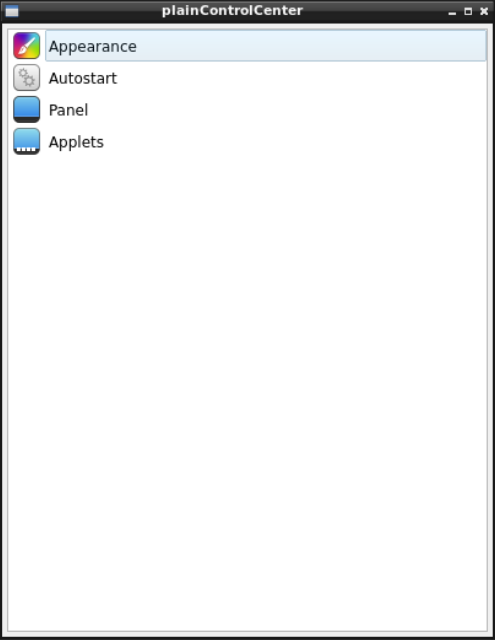
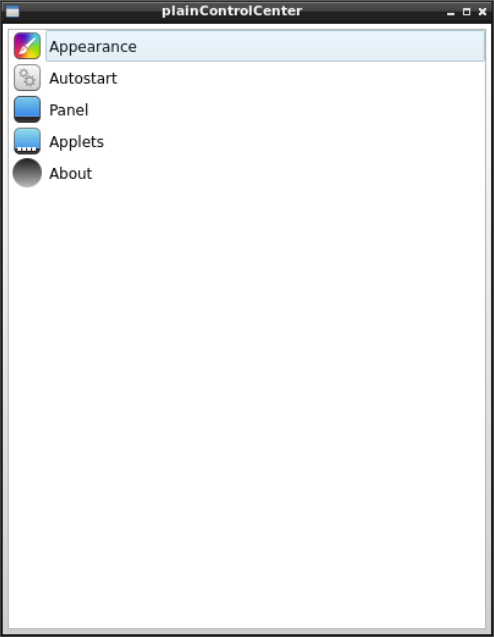
0.1.4

Changed region(s): [[0.0, 0.0, 1.0, 1.0]]

diff --git a/panes/panel.cpp b/panes/panel.cpp
@@ -20,7 +20,8 @@ void PanelPane::setCurrentSettings(QSpinBox* panelHeightSpinBox,
                                    QRadioButton* panelBottomLocationRadioButton,
                                    QCheckBox* panelAnimationCheckBox,
                                    QCheckBox* expandPanelCheckBox,
-                                   QSpinBox* panelOffsetSpinBox) {
+                                   QSpinBox* panelOffsetSpinBox,
+                                   QDoubleSpinBox* panelOpacitySpinBox) {
     panelHeightSpinBox->setValue(panelPaneConfig["panelHeight"].toInt());
     if (panelPaneConfig["panelLocation"].toString() == "top") {
         panelTopLocationRadioButton->toggle();
@@ -40,13 +41,16 @@ void PanelPane::setCurrentSettings(QSpinBox* panelHeightSpinBox,
         panelOffsetSpinBox->setEnabled(true);
         panelOffsetSpinBox->setValue(panelPaneConfig["xOffset"].toInt());
     }
+
+    panelOpacitySpinBox->setValue(panelPaneConfig["panelOpacity"].toDouble());
 }
 
 void PanelPane::saveSettings(QSpinBox* panelHeightSpinBox,
                              QRadioButton* panelTopLocationRadioButton,
                              QCheckBox* panelAnimationCheckBox,
                              QCheckBox* expandPanelCheckBox,
-                             QSpinBox* panelOffsetSpinBox) {
+                             QSpinBox* panelOffsetSpinBox,
+                             QDoubleSpinBox* panelOpacitySpinBox) {
     panelPaneConfig["panelHeight"] = QJsonValue(panelHeightSpinBox->value());
     if (panelTopLocationRadioButton->isChecked()) {
         panelPaneConfig["panelLocation"] = QJsonValue("top");
@@ -70,6 +74,8 @@ void PanelPane::saveSettings(QSpinBox* panelHeightSpinBox,
     }
 
     panelPaneConfig["xOffset"] = QJsonValue(panelOffsetSpinBox->value());
+
+    panelPaneConfig["panelOpacity"] = QJsonValue(panelOpacitySpinBox->value());
 
     Pane::saveConfig(panelPaneConfig);
 }
@@ -137,6 +143,14 @@ QWidget* PanelPane::createUI(QWidget* controlCenter) {
                 QGuiApplication::primaryScreen()->size().width());
     panelPane->layout()->addWidget(panelOffsetSpinBox);
 
+    QLabel* panelOpacityLabel = new QLabel("Panel opacity");
+    panelPane->layout()->addWidget(panelOpacityLabel);
+
+    QDoubleSpinBox* panelOpacitySpinBox = new QDoubleSpinBox;
+    panelOpacitySpinBox->setMinimum(0.1);
+    panelOpacitySpinBox->setMaximum(1.0);
+    panelPane->layout()->addWidget(panelOpacitySpinBox);
+
     panelPane->layout()->addItem(new QSpacerItem(0, 0, QSizePolicy::Expanding, QSizePolicy::Expanding));
 
     QPushButton* revertPushButton = new QPushButton("Revert");
@@ -150,7 +164,8 @@ QWidget* PanelPane::createUI(QWidget* controlCenter) {
                        panelBottomLocationRadioButton,
                        panelAnimationCheckBox,
                        expandPanelCheckBox,
-                       panelOffsetSpinBox);
+                       panelOffsetSpinBox,
+                       panelOpacitySpinBox);
 
 
     // Make connections
@@ -174,24 +189,26 @@ QWidget* PanelPane::createUI(QWidget* controlCenter) {
     panelPane->connect(revertPushButton, &QPushButton::clicked, panelPane,
                        [this, panelHeightSpinBox, panelTopLocationRadioButton,
                        panelBottomLocationRadioButton, panelAnimationCheckBox,
-                       expandPanelCheckBox, panelOffsetSpinBox]() {
+                       expandPanelCheckBox, panelOffsetSpinBox, panelOpacitySpinBox]() {
         setCurrentSettings(panelHeightSpinBox,
                            panelTopLocationRadioButton,
                            panelBottomLocationRadioButton,
                            panelAnimationCheckBox,
                            expandPanelCheckBox,
-                           panelOffsetSpinBox);
+                           panelOffsetSpinBox,
+                           panelOpacitySpinBox);
     });
 
     panelPane->connect(savePushButton, &QPushButton::clicked, panelPane,
                        [this, panelHeightSpinBox, panelTopLocationRadioButton,
                         panelAnimationCheckBox, expandPanelCheckBox,
-                        panelOffsetSpinBox]() {
+                        panelOffsetSpinBox, panelOpacitySpinBox]() {
         saveSettings(panelHeightSpinBox,
                      panelTopLocationRadioButton,
                      panelAnimationCheckBox,
                      expandPanelCheckBox,
-                     panelOffsetSpinBox);
+                     panelOffsetSpinBox,
+                     panelOpacitySpinBox);
     });
 
     return panelPane;

diff --git a/panes/panel.h b/panes/panel.h
@@ -12,12 +12,14 @@ public:
                             QRadioButton* panelBottomLocationRadioButton,
                             QCheckBox* panelAnimationCheckBox,
                             QCheckBox* expandPanelCheckBox,
-                            QSpinBox* panelOffsetSpinBox);
+                            QSpinBox* panelOffsetSpinBox,
+                            QDoubleSpinBox* panelOpacitySpinBox);
     void saveSettings(QSpinBox* panelHeightSpinBox,
                       QRadioButton* panelTopLocationRadioButton,
                       QCheckBox* panelAnimationCheckBox,
                       QCheckBox* expandPanelCheckBox,
-                      QSpinBox* panelOffsetSpinBox);
+                      QSpinBox* panelOffsetSpinBox,
+                      QDoubleSpinBox* panelOpacitySpinBox);
 };
 
 #endif // PANEL_H

diff --git a/settings.cpp b/settings.cpp
@@ -89,7 +89,7 @@ void createUI() {
                             {"About", QIcon("/usr/share/plainDE/menuIcon.png")}
                         };
 
-    for (short i = 0; i < 4; ++i) {
+    for (short i = 0; i < 5; ++i) {
         entriesListWidget->addItem(entries[i].name);
         entriesListWidget->item(i)->setIcon(entries[i].icon);
     }
@@ -136,7 +136,7 @@ void createUI() {
             controlCenter->hide();
         }
         else if (entriesListWidget->selectedItems()[0]->text() == "About") {
-            process->start("plainAbout");
+            process->start("plainAbout --plainControlCenter");
         }
     });
 

diff --git a/pane.h b/pane.h
@@ -16,6 +16,7 @@
 #include <QPushButton>
 #include <QFontComboBox>
 #include <QSpinBox>
+#include <QDoubleSpinBox>
 #include <QRadioButton>
 #include <QCheckBox>
 #include <QListWidget>
